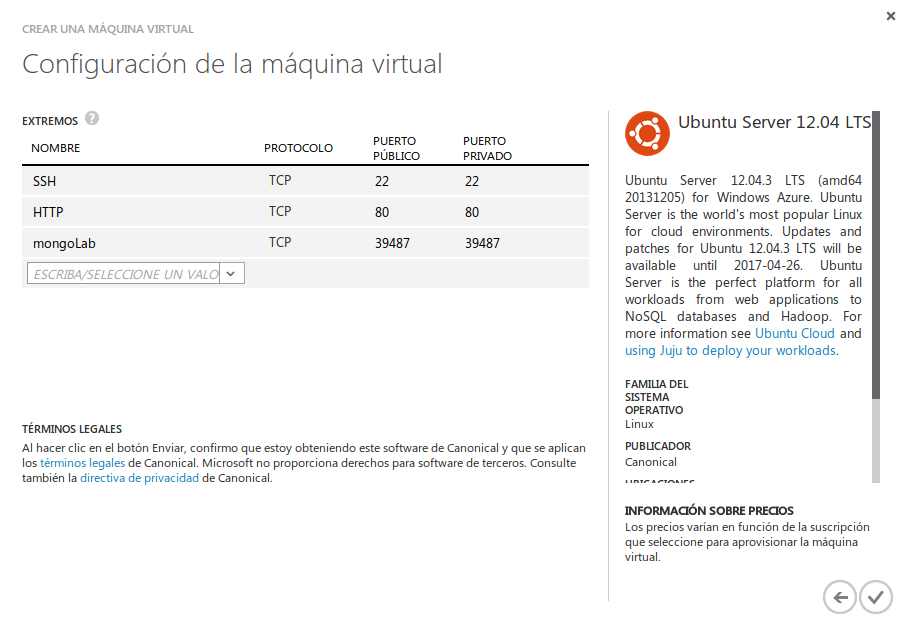
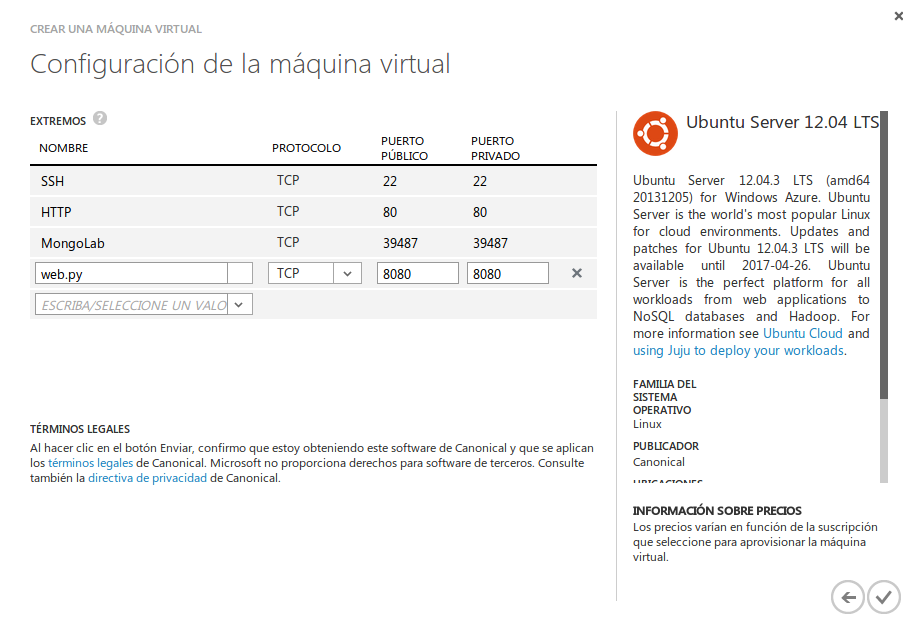
Práctica finalizada

diff --git a/benchmark.py b/benchmark.py
@@ -1,0 +1,64 @@
+#!/usr/bin/python
+# -*- coding: utf-8 -*- 
+
+# Uso: python benchmark.py <URL>
+
+import sys
+import os
+
+#Cogemos la URL del primer argumento:
+url=sys.argv[1]
+
+tiempos = []
+tasas = []
+repeticiones = 5
+
+# Ejecutamos los test sin concurrencia:
+for x in xrange(0,repeticiones):
+	os.system("ab -c 1 -n 2500 "+url+" >> resSinConcurrencia")
+
+resultados = file("resSinConcurrencia")
+for line in resultados:
+    array=line.split(" ")	#generamos una lista con las palabras de la línea
+    if array[0]=="Time" and array[1]=="taken":	#buscamos las líneas que indican el tiempo
+    	tiempos.append(array[6]) 	#añadimos el resultado, que está en la posición 6
+    if array[0]=="Transfer" and array[1]=="rate:":	#buscamos las líneas que indican la tasa de transferencia
+    	tasas.append(array[11]) 	#añadimos el resultado, que está en la posición 11
+    
+
+# Mostramos los resultados:
+print("-------------- Resultados del test sin concurrencia --------------")
+print("Tiempos, en segundos:")
+for x in xrange(0,repeticiones):
+	print("Repetición "+str(x)+" : "+tiempos[x])
+
+print("Tasas de transferencia, en KB/s:")
+for x in xrange(0,repeticiones):
+	print("Repetición "+str(x)+" : "+tasas[x])
+
+os.system("rm resSinConcurrencia")
+
+# Ejecutamos los test con concurrencia:
+for x in xrange(0,repeticiones):
+	os.system("ab -c 100 -n 1900 "+url+" >> resConConcurrencia")
+
+resultados = file("resConConcurrencia")
+for line in resultados:
+    array=line.split(" ")	#generamos una lista con las palabras de la línea
+    if array[0]=="Time" and array[1]=="taken":	#buscamos las líneas que indican el tiempo
+    	tiempos.append(array[6]) 	#añadimos el resultado, que está en la posición 6
+    if array[0]=="Transfer" and array[1]=="rate:":	#buscamos las líneas que indican la tasa de transferencia
+    	tasas.append(array[11]) 	#añadimos el resultado, que está en la posición 11
+    
+
+# Mostramos los resultados:
+print("-------------- Resultados del test con concurrencia --------------")
+print("Tiempos, en segundos:")
+for x in xrange(0,repeticiones):
+	print("Repetición "+str(x)+" : "+tiempos[x])
+
+print("Tasas de transferencia, en KB/s:")
+for x in xrange(0,repeticiones):
+	print("Repetición "+str(x)+" : "+tasas[x])
+
+os.system("rm resConConcurrencia")

diff --git a/README.md b/README.md
@@ -38,6 +38,9 @@ sudo apt-get install -y git
 sudo apt-get install -y python-dev
 sudo apt-get install -y libxml2-dev libxslt-dev
 
+# Variable de entorno necesaria para twitter
+export LC_ALL=C
+
 # Creación del entorno virtual Python
 cd ~
 mkdir env
@@ -58,22 +61,215 @@ pip install tweepy
 git clone https://antonioguirola@bitbucket.org/antonioguirola/appdai.git
 cd appdai
 
-# Ejecutamos el servidor web de web.py en el puerto 80
-python code.py 80
+# Ejecutamos el servidor web de web.py
+python code.py
 ```
 
-### Creación de las máquinas virtuales
+## Creación de las máquinas virtuales
 
-#### Máquina 1: Ubuntu Server 12.04 LTS extra pequeño
+### Máquina 1: Ubuntu Server 12.04 LTS extra pequeño
+
+Pulsamos en nueva MV y seleccionamos elegir desde imagen, a continuación seleccionamos la imagen de Ubuntu Server 12.04:
 
 ![captura](capturas/inst-1.png)
+
+El siguiente paso esponerle nombre a la MV, el tamaño de la máquina virtual y fijar el password del usuario que vamos a utilizar, por defecto *azureuser*:
+
 ![captura](capturas/inst-2.png)
+
+Para esta primera MV he seleccionado tamaño extra pequeño, el cual proporciona un núcleo compartido y 768 MB de memoria RAM.
+
+En el siguiente paso elegimos la localización del servidor (Europa preferiblemente) y la cuenta de almacenamiento que ya hemos creado en los [ejercicios 8 y 9 del tema 4](https://github.com/antonioguirola/IV2013/blob/master/Ejercicios/EjerciciosAlmacenamiento.md):
+
 ![captura](capturas/inst-3.png)
+
+En el último paso se seleccionan los puertos que necesitemos para los servicios de nuestra MV, que son:
+
+* 22 para acceso SSH
+* 39487 para conexión con la base de datos en MongoLab
+* 8080 para ejecutar el servidor web incorporado en web.py
+
 ![captura](capturas/inst-4.png)
 
-##### Conexión a la MV
+#### Conexión a la MV
 
-Una vez arrancada la MV podemos acceder por SSH:
+Una vez arrancada la MV podemos enviar el script con `scp generateEnvironment.sh azureuser@iv-ubuntu-mx.cloudapp.net` y a continuación acceder por SSH mediante la orden:
 
 ![captura](capturas/ssh-conn.png)
 
+Una vez en la MV, ejecutamos el script y comprobamos que la aplicación efectivamente funciona:
+
+![captura](capturas/funciona-1.png)
+
+El siguiente paso es ejecutar el script con Apache Benchmark que se mostrará más adelante, he decidido lanzarlo sobre la sección de la aplicación que muestra un mapa de Google, la localización de la ETSIIT y la de nuestro ordenador si damos permiso:
+
+![captura](capturas/funciona-2.png)
+
+
+### Máquina 2: Ubuntu Server 12.04 LTS pequeño
+
+Para esta configuración en vez de crear una nueva máquina voy a apagar la primera MV, cambiar su configuración y volver a encenderla, para ello vamos a la pestaña *Panel* de la MV en la web de Azure y pulsamos en apagar:
+
+![captura](capturas/cambio-1.png)
+
+A continuación vamos a la pestaña *Configurar*, cambiamos el tamaño de la máquina a *Pequeño* y pulsamos en *Guardar*:
+
+![captura](capturas/cambio-2.png)
+
+Con los cambios aplicados ya podemos volver a arrancar la máquina y ejecutar las pruebas sobre ella.
+
+
+### Máquina 3: Ubuntu Server 13.10 extra pequeño
+
+Para las configuraciones 3 y 4 he elegido el último sistema disponible de la plataforma Ubuntu con el objetivo de comprobar si se han introducido mejoras en la eficiencia de la distribución. Para crearla, tal y como hicimos con la máquina 1 tendremos que seleccionar la imagen correspondiente en el menú de nueva máquina virtual:
+
+![captura](capturas/1310-1.png)
+
+En esta ocasión el nombre elegido es *iv-ubuntu-1310* y al igual que con la máquina 1 el tamaño elegido es extra pequeño:
+
+![captura](capturas/1310-2.png)
+
+Como estoy utilizando un servicio DBaaS hay que utilizar el mismo puerto para la conexión con la base de datos:
+
+![captura](capturas/1310-3.png)
+
+Una vez finalizada la configuración y cuando observemos en el panel de control que la máquina ya está iniciada podremos enviarle el script de instalación y conectarnos a ella mediante SSH para iniciar la aplicación y así poder realizar las pruebas:
+
+![captura](capturas/1310-4.png)
+
+#### Problema
+
+Mientras el script descargaba e instalaba el módulo Python lxml obtuve el siguiente error:
+
+![captura](capturas/1310-error.png)
+
+Pero instalando tal y como se dice [aquí](http://stackoverflow.com/questions/3373995/usr-bin-ld-cannot-find-lz) el paquete *sudo apt-get install lib32z1-dev*, borrando el directorio y volviendo a ejecutar el script el problema se solucionó.
+
+![captura](capturas/1310-working.png)
+
+### Máquina 4: Ubuntu Server 13.10 pequeño
+
+Para configurar la MV 4 los pasos son exactamente los mismos que con la 2: apagar, cambiar el tamaño de la MV, volver a encender y realizar las pruebas.
+
+## Benchmark
+
+Como se ha dicho en la introducción voy a utilizar Apache Benchmark para establecer que configuración es la más apropiada para la aplicación web, para ello el primer paso es instalar `sudo apt-get install apache2-utils` en la máquina desde la que se van a lanzar las peticiones.
+
+### Carga de trabajo
+
+Haciendo las pruebas iniciales he comprobado que si hacemos un número elevado de peticiones a la MV o muchas concurrentes Azure corta la conexión y no permite que se termine de ejecutar el benchmark:
+
+![captura](capturas/ab-error.png)
+
+Por lo tanto he asignado las dos siguientes cargas de trabajo, que son las más altas que he encontrado permitiendo finalizar las pruebas:
+
+* 1900 peticiones con una concurrencia de 100 simultáneas
+* 2500 peticiones sin concurrencia
+
+### Métricas
+
+Los parámetros que he elegido para comparar las siguientes configuraciones son:
+
+* Tiempo necesario para el test, en segundos
+* Tasa de transferencia, en KBytes/s recibidos
+
+### Script
+
+He creado el siguiente script, que recibe la URL a probar como argumento, para que realice las pruebas seleccionadas y muestre los resultados de las 5 repeticiones por pantalla:
+
+```sh
+#!/usr/bin/python
+# -*- coding: utf-8 -*- 
+
+# Uso: python benchmark.py <URL>
+
+import sys
+import os
+
+#Cogemos la URL del primer argumento:
+url=sys.argv[1]
+
+tiempos = []
+tasas = []
+repeticiones = 5
+
+# Ejecutamos los test sin concurrencia:
+for x in xrange(0,repeticiones):
+	os.system("ab -c 1 -n 2500 "+url+" >> resSinConcurrencia")
+
+resultados = file("resSinConcurrencia")
+for line in resultados:
+    array=line.split(" ")	#generamos una lista con las palabras de la línea
+    if array[0]=="Time" and array[1]=="taken":	#buscamos las líneas que indican el tiempo
+    	tiempos.append(array[6]) 	#añadimos el resultado, que está en la posición 6
+    if array[0]=="Transfer" and array[1]=="rate:":	#buscamos las líneas que indican la tasa de transferencia
+    	tasas.append(array[11]) 	#añadimos el resultado, que está en la posición 11
+    
+
+# Mostramos los resultados:
+print("-------------- Resultados del test sin concurrencia --------------")
+print("Tiempos, en segundos:")
+for x in xrange(0,repeticiones):
+	print("Repetición "+str(x)+" : "+tiempos[x])
+
+print("Tasas de transferencia, en KB/s:")
+for x in xrange(0,repeticiones):
+	print("Repetición "+str(x)+" : "+tasas[x])
+
+os.system("rm resSinConcurrencia")
+
+# Ejecutamos los test con concurrencia:
+for x in xrange(0,repeticiones):
+	os.system("ab -c 100 -n 1900 "+url+" >> resConConcurrencia")
+
+resultados = file("resConConcurrencia")
+for line in resultados:
+    array=line.split(" ")	#generamos una lista con las palabras de la línea
+    if array[0]=="Time" and array[1]=="taken":	#buscamos las líneas que indican el tiempo
+    	tiempos.append(array[6]) 	#añadimos el resultado, que está en la posición 6
+    if array[0]=="Transfer" and array[1]=="rate:":	#buscamos las líneas que indican la tasa de transferencia
+    	tasas.append(array[11]) 	#añadimos el resultado, que está en la posición 11
+    
+
+# Mostramos los resultados:
+print("-------------- Resultados del test con concurrencia --------------")
+print("Tiempos, en segundos:")
+for x in xrange(0,repeticiones):
+	print("Repetición "+str(x)+" : "+tiempos[x])
+
+print("Tasas de transferencia, en KB/s:")
+for x in xrange(0,repeticiones):
+	print("Repetición "+str(x)+" : "+tasas[x])
+
+os.system("rm resConConcurrencia")
+```
+
+Tras ejecutar el script contra la primera MV por ejemplo con la orden `python benchmark.py http://iv-ubuntu-xm.cloudapp.net:8080/maps` obtenemos la siguiente salida:
+
+![captura](capturas/res-1.png)
+
+## Resultados
+
+Tras ejecutar el script contra las 4 configuraciones estos son los resultados obtenidos (en media):
+
+
+|					MV					|		Tiempo (s)		|		Tasa de transferencia (KB/s)		|
+|:-------------------------------------:|:---------------------:|:-----------------------------------------:|
+| Ubuntu Server 12.04 LTS - Extra peq.	|366.25					|39.2										|
+| Ubuntu Server 12.04 LTS - Pequeño		|356.83					|40.26										|
+| Ubuntu Server 13.10 - Extra peq.		|360.63					|39.85										|
+| Ubuntu Server 13.10 - Pequeño			|351.37					|40.88										|
+
+![captura](capturas/grafica-1.png)
+
+![captura](capturas/grafica-2.png)
+
+Se adjunta en el proyecto el documento de OpenOffice con los resultados pormenorizados.
+
+## Conclusiones
+
+Como se puede apreciar de los resultados la versión 13.10 es más eficiente que la 12.04, aunque esta mejoría es más notable en el tiempo necesario para procesar las peticiones que en la tasa de transferencia que puede emitir el servidor, presumiblemente debido al cuello de botella en la interfaz de red.
+
+## Observaciones
+
+Me he dado cuenta de que tras dejar toda la noche funcionando la MV con la aplicación ejecutándose no pude volver a conectarme a la mañana siguiente sin reiniciar el servidor web, por lo tanto deduzco que, al tratarse de un servidor web orientado principalmente al testeo de aplicaciones web, éste se cierre después de un periodo de inactividad.
